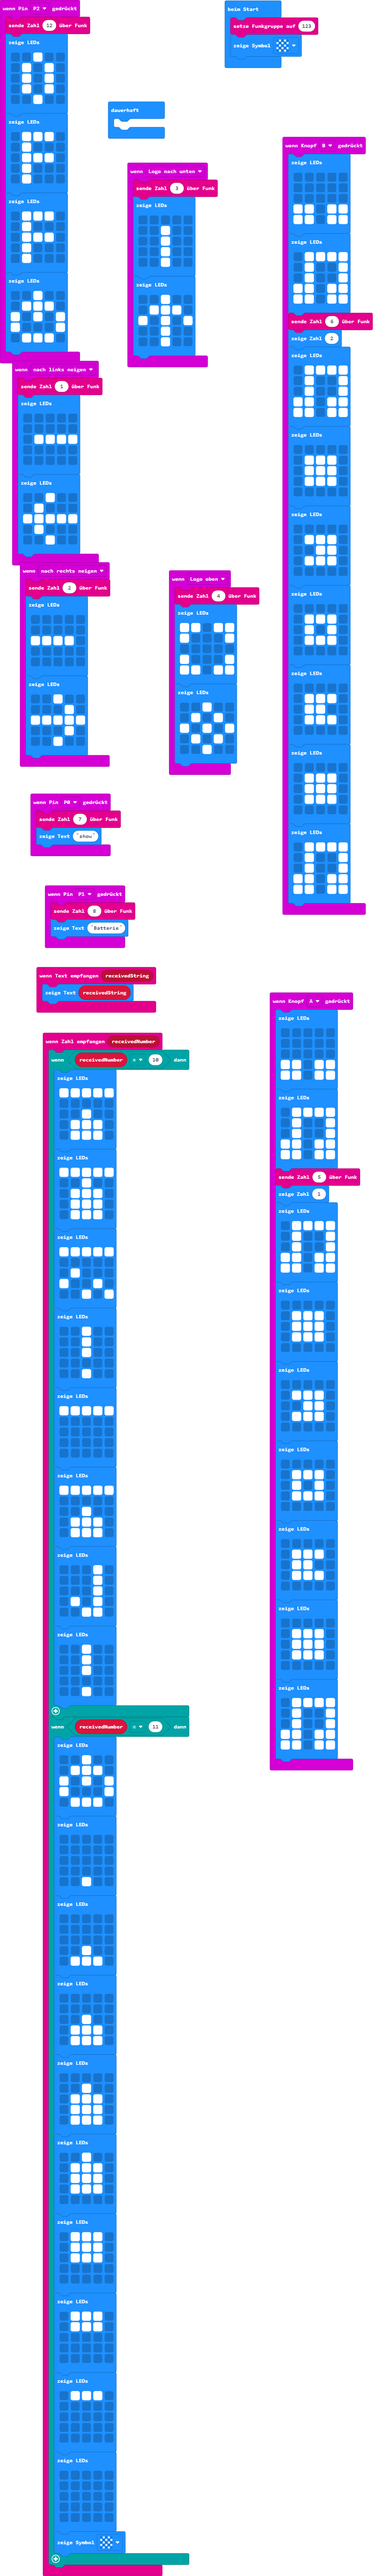
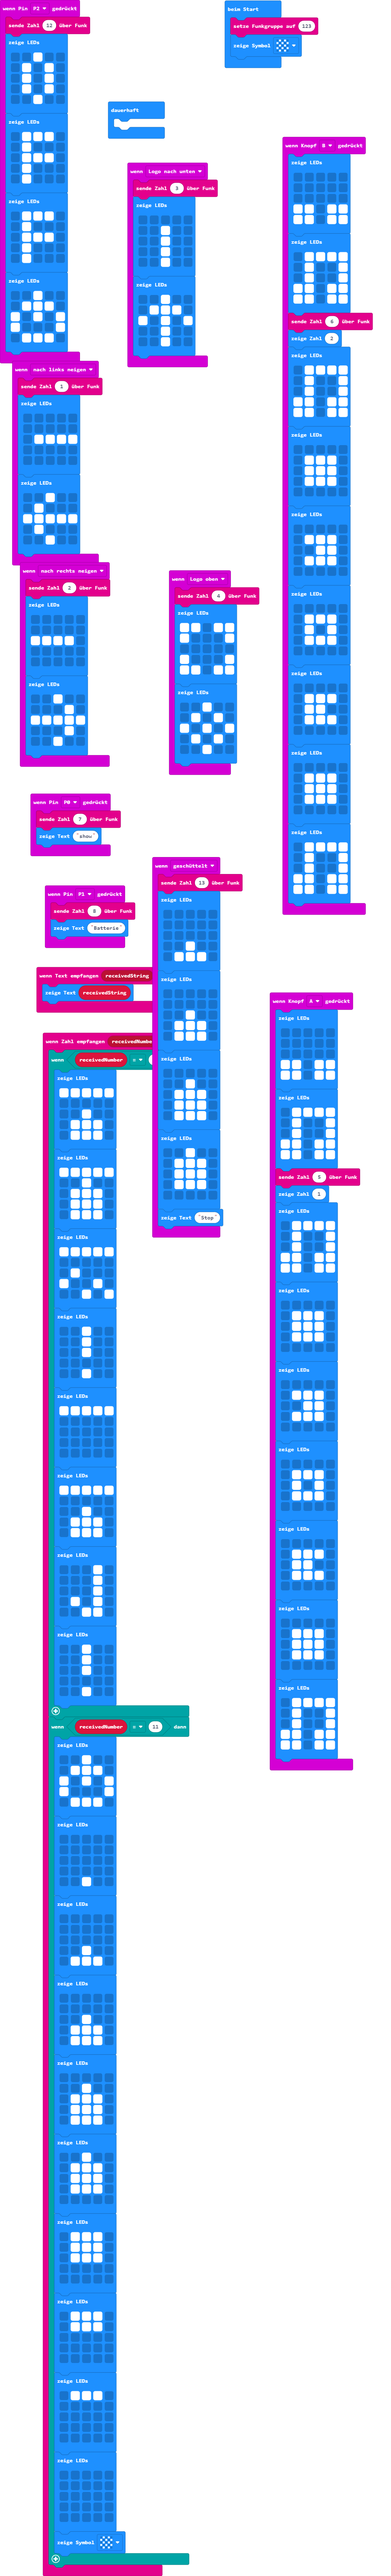
Stop all Motors

Changed region(s): [[0.3679, 0.3113, 0.6132, 0.4981]]

diff --git a/main.ts b/main.ts
@@ -284,6 +284,38 @@ input.onPinPressed(TouchPin.P2, function () {
         . # # # .
         `)
 })
+input.onGesture(Gesture.Shake, function () {
+    radio.sendNumber(13)
+    basic.showLeds(`
+        . . . . .
+        . . . . .
+        . . . . .
+        . . # . .
+        . # # # .
+        `)
+    basic.showLeds(`
+        . . . . .
+        . . . . .
+        . . # . .
+        . # # # .
+        . # # # .
+        `)
+    basic.showLeds(`
+        . . . . .
+        . . # . .
+        . # # # .
+        . # # # .
+        . # # # .
+        `)
+    basic.showLeds(`
+        . . # . .
+        . # # # .
+        . # # # .
+        . # # # .
+        . . . . .
+        `)
+    basic.showString("Stop")
+})
 input.onGesture(Gesture.LogoDown, function () {
     radio.sendNumber(3)
     basic.showLeds(`
